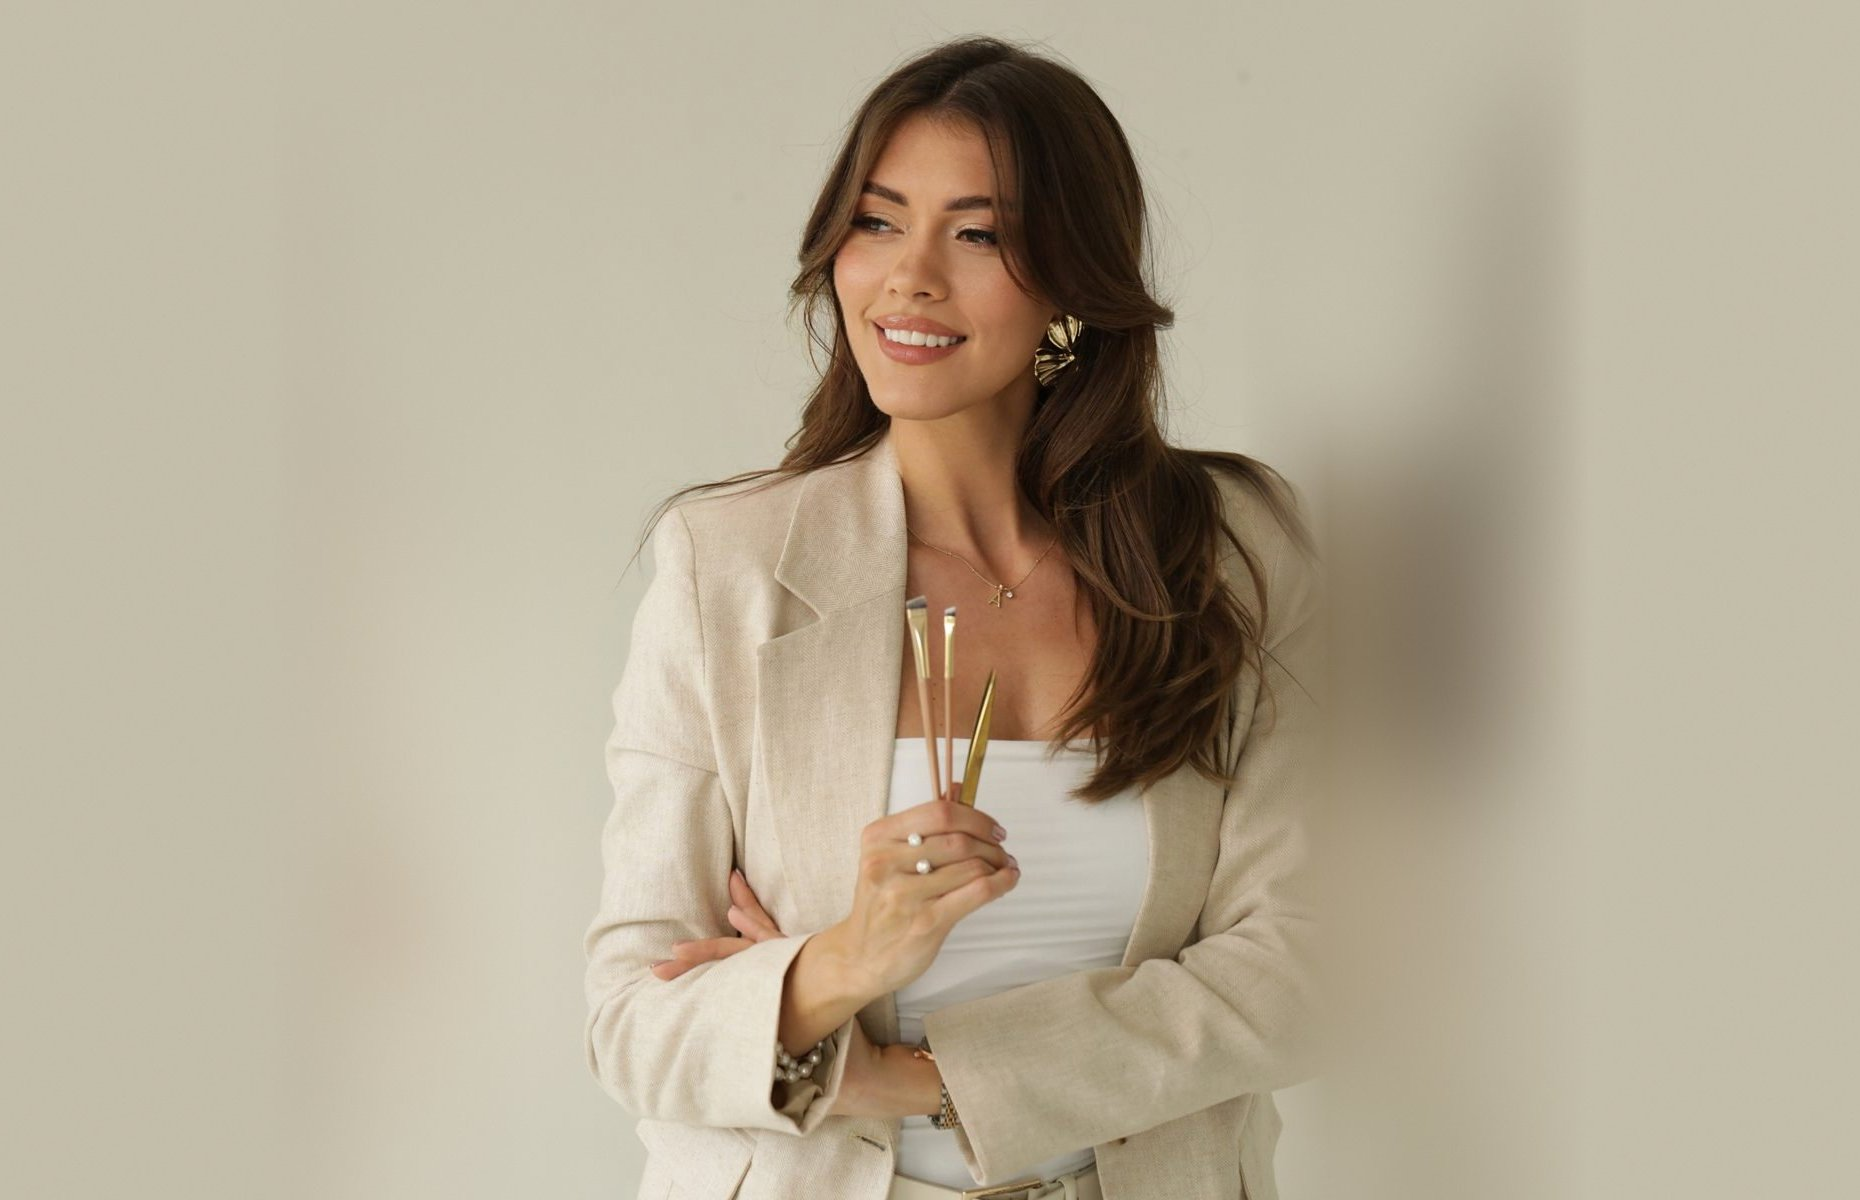
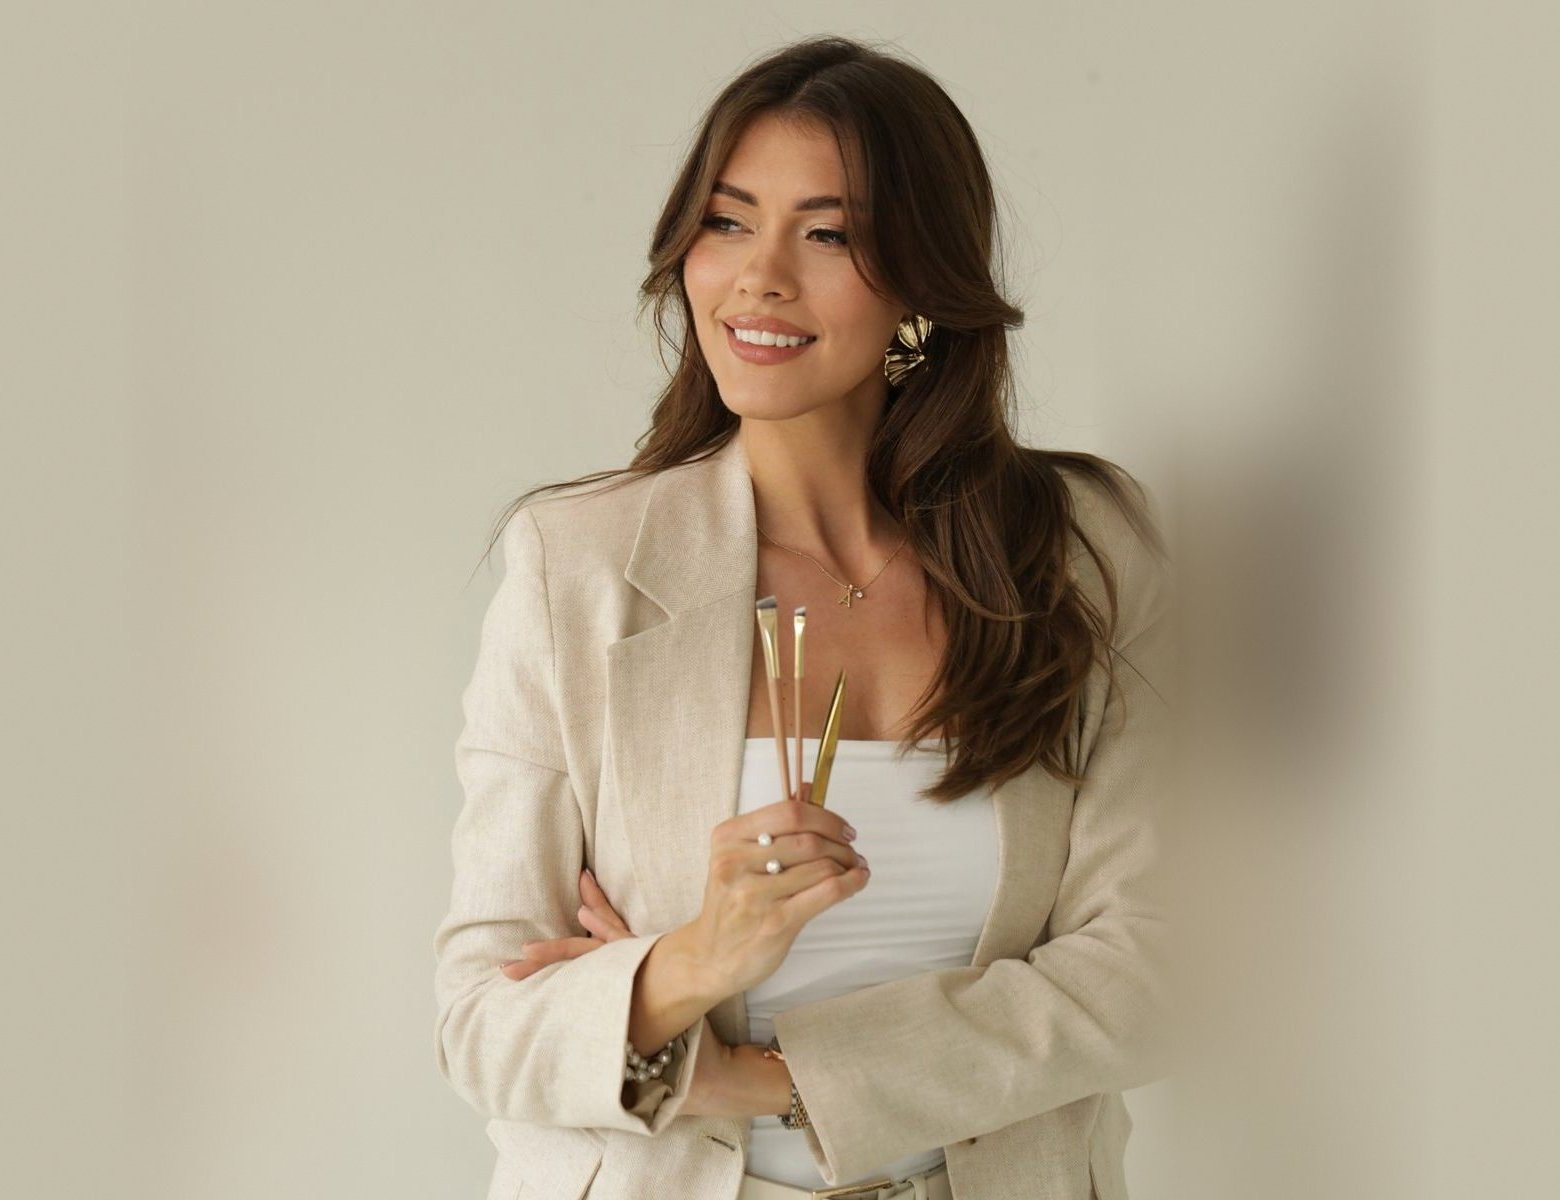
Fooldal: gepi nyitokep meg kozelebbrol
Claude-Session: https://claude.ai/code/session_017V7cEQXaPK7DRF3SZZecqR

diff --git a/index.html b/index.html
@@ -8,7 +8,7 @@
 <link rel="preconnect" href="https://fonts.googleapis.com">
 <link rel="preconnect" href="https://fonts.gstatic.com" crossorigin>
 <link href="https://fonts.googleapis.com/css2?family=Montserrat:wght@300;400;500;600&family=Poppins:wght@300;400;500&display=swap" rel="stylesheet">
-<link rel="stylesheet" href="style.css?v=4">
+<link rel="stylesheet" href="style.css?v=5">
 </head>
 <body>
 <header>
@@ -36,7 +36,7 @@
 </header>
 
 <section class="hero">
-  <picture><source media="(min-width:961px)" srcset="img/anita-hero-szeles.jpg?v=2"><img src="img/anita-hero.jpg" alt="Bartók Anita, a Natural Beauty Brows tulajdonosa"></picture>
+  <picture><source media="(min-width:961px)" srcset="img/anita-hero-szeles.jpg?v=3"><img src="img/anita-hero.jpg" alt="Bartók Anita, a Natural Beauty Brows tulajdonosa"></picture>
   <h1>Smink nélkül is magabiztos megjelenés</h1>
 </section>
 

diff --git a/style.css b/style.css
@@ -224,5 +224,5 @@ img[src$="spray-tan.jpg"]{object-position:right 62%}
 .split .media img[src$="anita.jpg"]{object-position:50% 0%}
 @media(max-width:960px){.split .media img[src$="anita.jpg"]{aspect-ratio:auto;height:auto}}
 /* főoldali nyitókép gépen: a fej teteje ne vágódjon le */
-@media(min-width:961px){.hero img{object-position:50% 0%}}
+@media(min-width:961px){.hero img{object-position:50% 5%}}
 .hero picture{position:absolute;inset:0}

diff --git a/arak.html b/arak.html
@@ -8,7 +8,7 @@
 <link rel="preconnect" href="https://fonts.googleapis.com">
 <link rel="preconnect" href="https://fonts.gstatic.com" crossorigin>
 <link href="https://fonts.googleapis.com/css2?family=Montserrat:wght@300;400;500;600&family=Poppins:wght@300;400;500&display=swap" rel="stylesheet">
-<link rel="stylesheet" href="style.css?v=4">
+<link rel="stylesheet" href="style.css?v=5">
 </head>
 <body>
 <header>

diff --git a/gyik.html b/gyik.html
@@ -8,7 +8,7 @@
 <link rel="preconnect" href="https://fonts.googleapis.com">
 <link rel="preconnect" href="https://fonts.gstatic.com" crossorigin>
 <link href="https://fonts.googleapis.com/css2?family=Montserrat:wght@300;400;500;600&family=Poppins:wght@300;400;500&display=swap" rel="stylesheet">
-<link rel="stylesheet" href="style.css?v=4">
+<link rel="stylesheet" href="style.css?v=5">
 </head>
 <body>
 <header>

diff --git a/kapcsolat.html b/kapcsolat.html
@@ -8,7 +8,7 @@
 <link rel="preconnect" href="https://fonts.googleapis.com">
 <link rel="preconnect" href="https://fonts.gstatic.com" crossorigin>
 <link href="https://fonts.googleapis.com/css2?family=Montserrat:wght@300;400;500;600&family=Poppins:wght@300;400;500&display=swap" rel="stylesheet">
-<link rel="stylesheet" href="style.css?v=4">
+<link rel="stylesheet" href="style.css?v=5">
 </head>
 <body>
 <header>

diff --git a/koreai-szempilla-lifting.html b/koreai-szempilla-lifting.html
@@ -8,7 +8,7 @@
 <link rel="preconnect" href="https://fonts.googleapis.com">
 <link rel="preconnect" href="https://fonts.gstatic.com" crossorigin>
 <link href="https://fonts.googleapis.com/css2?family=Montserrat:wght@300;400;500;600&family=Poppins:wght@300;400;500&display=swap" rel="stylesheet">
-<link rel="stylesheet" href="style.css?v=4">
+<link rel="stylesheet" href="style.css?v=5">
 </head>
 <body>
 <header>

diff --git a/rolam.html b/rolam.html
@@ -8,7 +8,7 @@
 <link rel="preconnect" href="https://fonts.googleapis.com">
 <link rel="preconnect" href="https://fonts.gstatic.com" crossorigin>
 <link href="https://fonts.googleapis.com/css2?family=Montserrat:wght@300;400;500;600&family=Poppins:wght@300;400;500&display=swap" rel="stylesheet">
-<link rel="stylesheet" href="style.css?v=4">
+<link rel="stylesheet" href="style.css?v=5">
 </head>
 <body>
 <header>

diff --git a/spray-tan.html b/spray-tan.html
@@ -8,7 +8,7 @@
 <link rel="preconnect" href="https://fonts.googleapis.com">
 <link rel="preconnect" href="https://fonts.gstatic.com" crossorigin>
 <link href="https://fonts.googleapis.com/css2?family=Montserrat:wght@300;400;500;600&family=Poppins:wght@300;400;500&display=swap" rel="stylesheet">
-<link rel="stylesheet" href="style.css?v=4">
+<link rel="stylesheet" href="style.css?v=5">
 </head>
 <body>
 <header>

diff --git a/szemoldok-laminalas.html b/szemoldok-laminalas.html
@@ -8,7 +8,7 @@
 <link rel="preconnect" href="https://fonts.googleapis.com">
 <link rel="preconnect" href="https://fonts.gstatic.com" crossorigin>
 <link href="https://fonts.googleapis.com/css2?family=Montserrat:wght@300;400;500;600&family=Poppins:wght@300;400;500&display=swap" rel="stylesheet">
-<link rel="stylesheet" href="style.css?v=4">
+<link rel="stylesheet" href="style.css?v=5">
 </head>
 <body>
 <header>

diff --git a/szemoldok-styling.html b/szemoldok-styling.html
@@ -8,7 +8,7 @@
 <link rel="preconnect" href="https://fonts.googleapis.com">
 <link rel="preconnect" href="https://fonts.gstatic.com" crossorigin>
 <link href="https://fonts.googleapis.com/css2?family=Montserrat:wght@300;400;500;600&family=Poppins:wght@300;400;500&display=swap" rel="stylesheet">
-<link rel="stylesheet" href="style.css?v=4">
+<link rel="stylesheet" href="style.css?v=5">
 </head>
 <body>
 <header>

diff --git a/szempilla-lifting.html b/szempilla-lifting.html
@@ -8,7 +8,7 @@
 <link rel="preconnect" href="https://fonts.googleapis.com">
 <link rel="preconnect" href="https://fonts.gstatic.com" crossorigin>
 <link href="https://fonts.googleapis.com/css2?family=Montserrat:wght@300;400;500;600&family=Poppins:wght@300;400;500&display=swap" rel="stylesheet">
-<link rel="stylesheet" href="style.css?v=4">
+<link rel="stylesheet" href="style.css?v=5">
 </head>
 <body>
 <header>

diff --git a/teljes-szemoldok-styling.html b/teljes-szemoldok-styling.html
@@ -8,7 +8,7 @@
 <link rel="preconnect" href="https://fonts.googleapis.com">
 <link rel="preconnect" href="https://fonts.gstatic.com" crossorigin>
 <link href="https://fonts.googleapis.com/css2?family=Montserrat:wght@300;400;500;600&family=Poppins:wght@300;400;500&display=swap" rel="stylesheet">
-<link rel="stylesheet" href="style.css?v=4">
+<link rel="stylesheet" href="style.css?v=5">
 </head>
 <body>
 <header>
